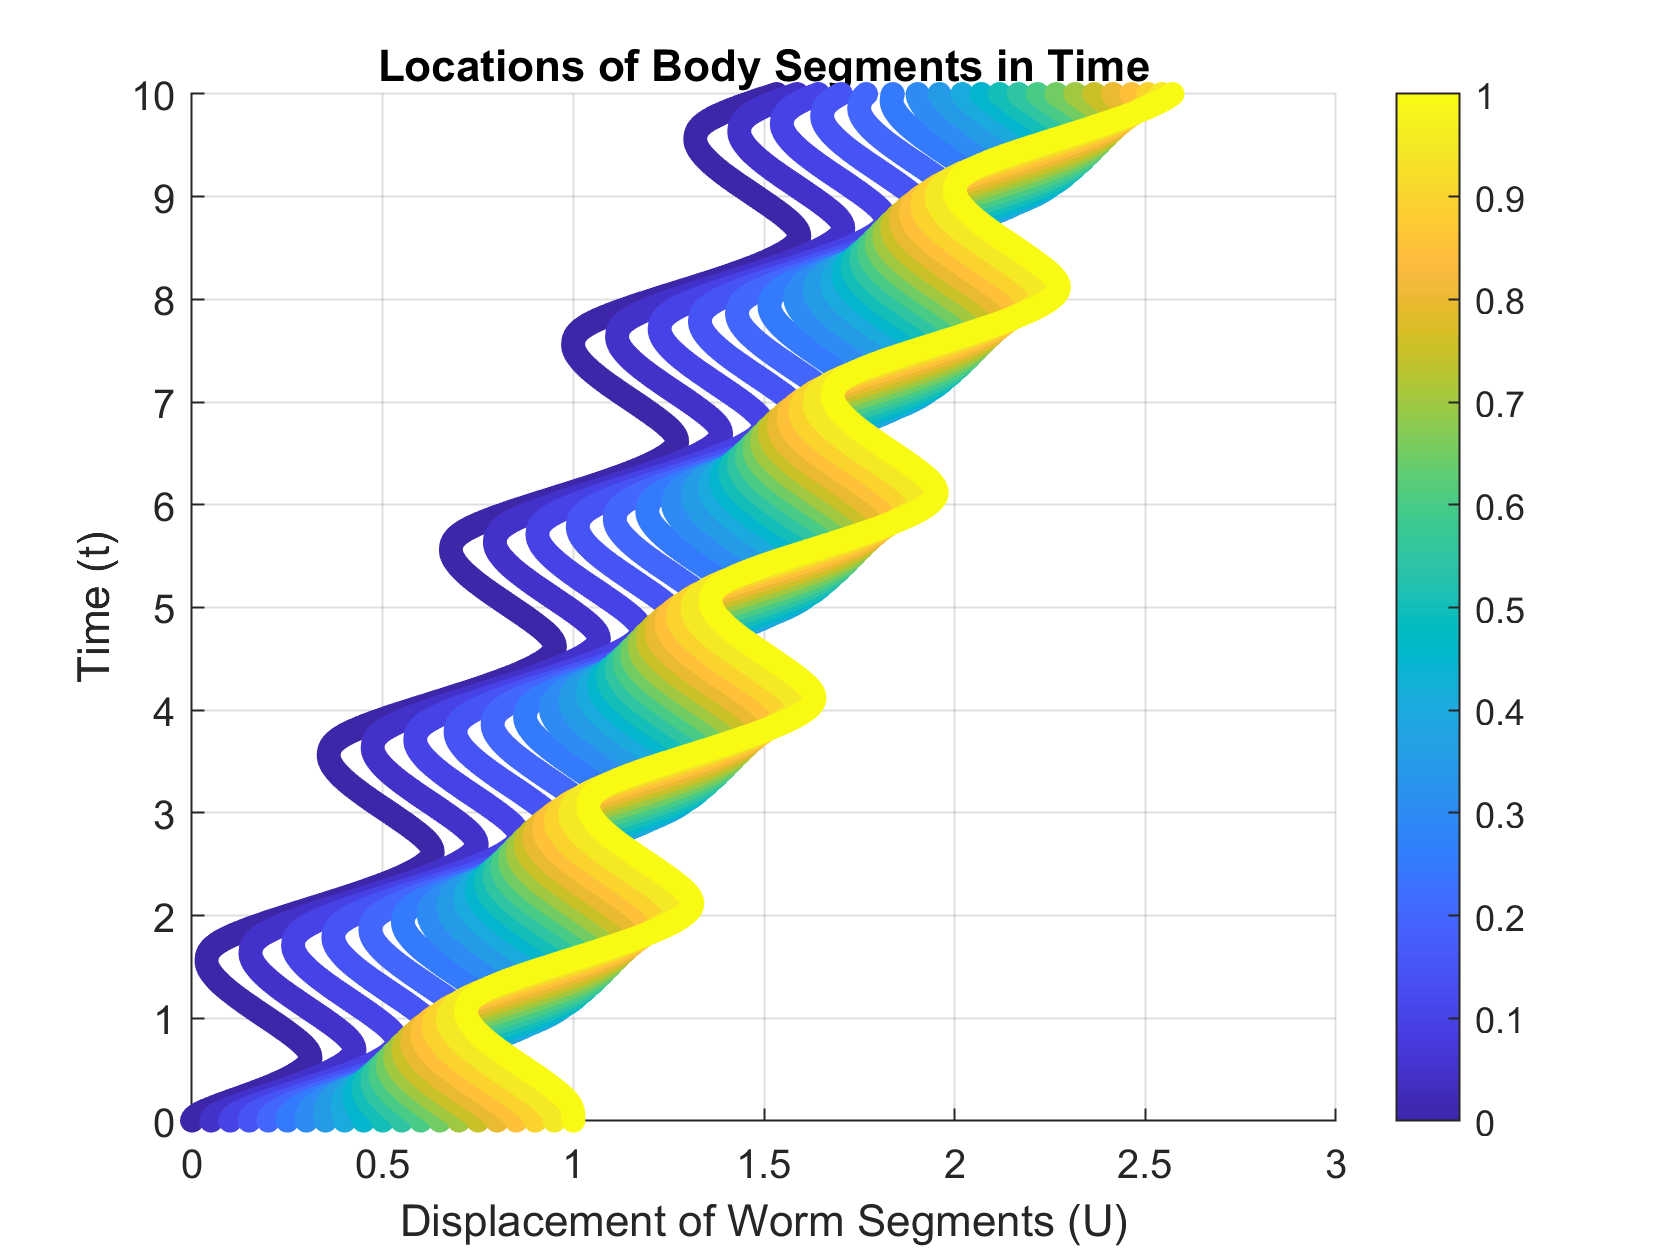
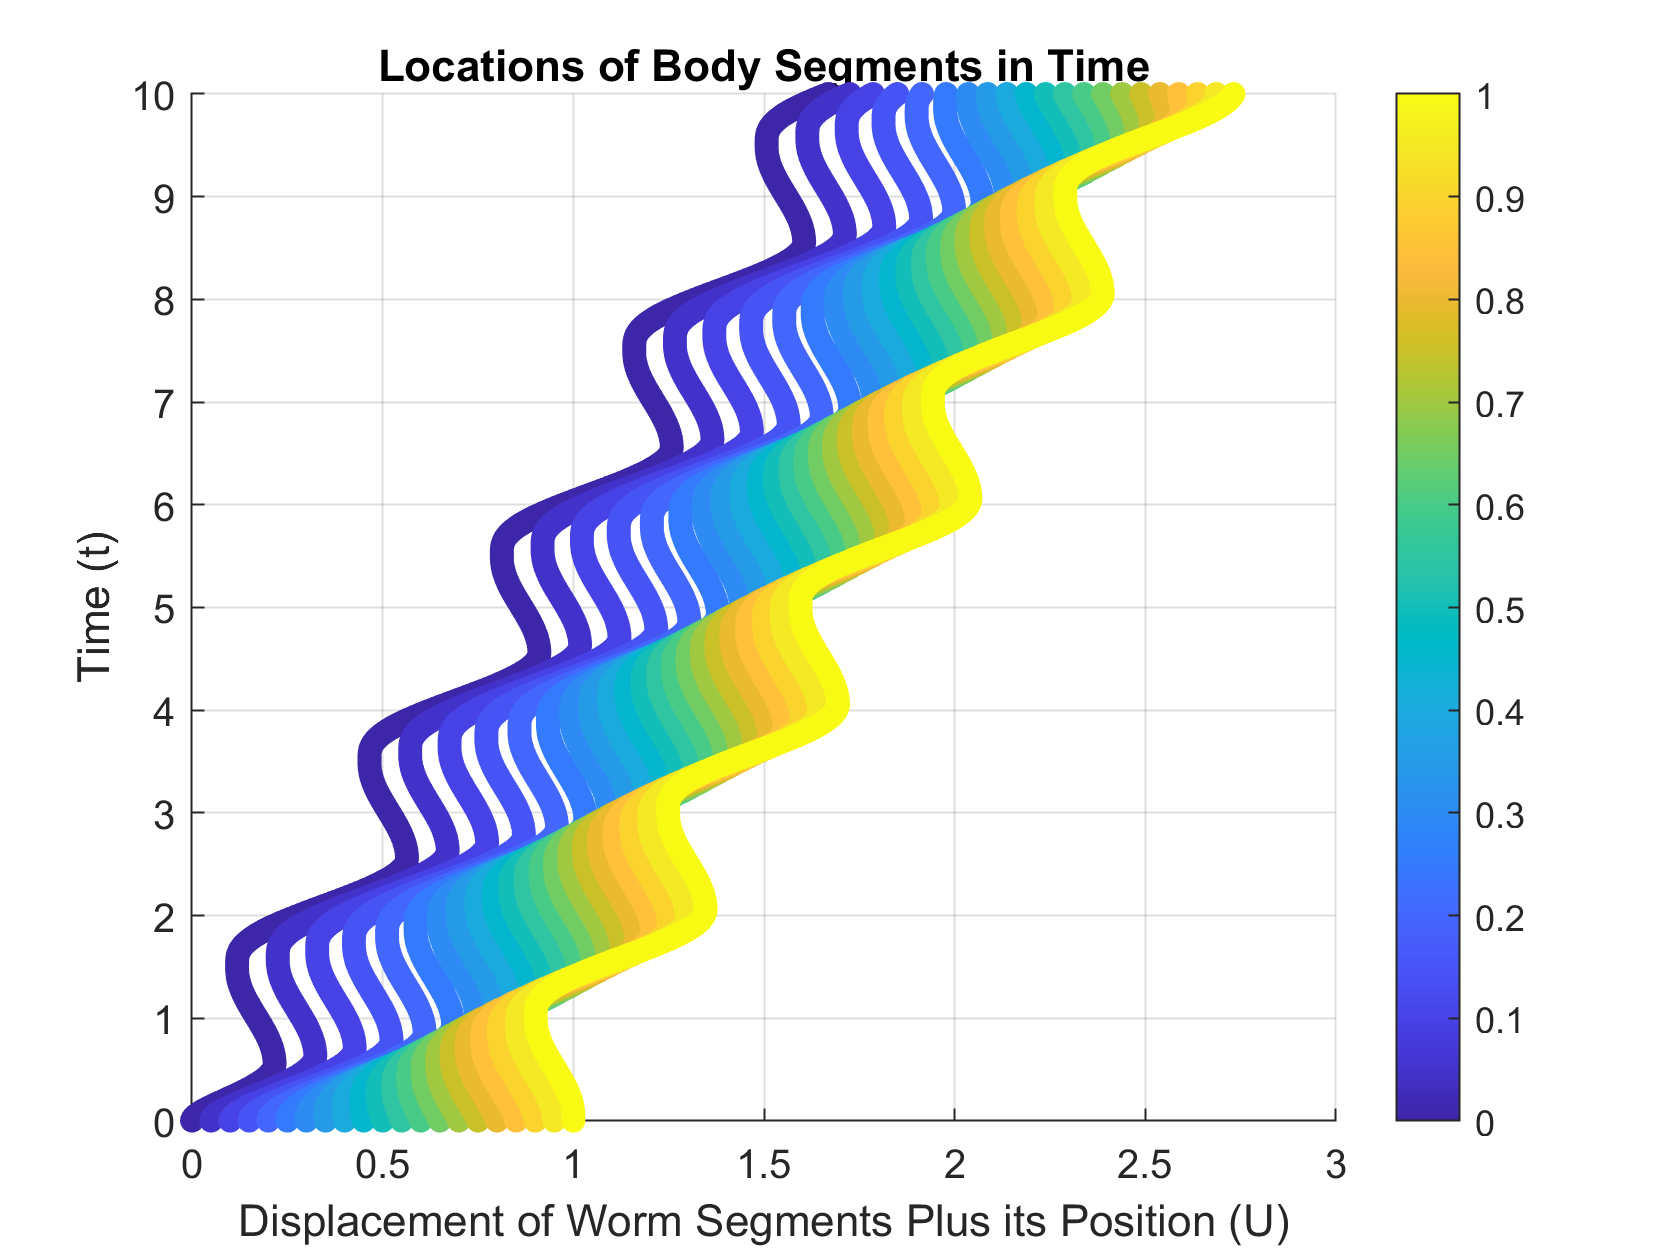
Add files via upload

Changed region(s): [[0.0929, 0.0619, 0.7429, 0.8976], [0.1548, 0.9595, 0.7738, 0.9905]]

diff --git a/APPM4350ProjectNumerical.tex b/APPM4350ProjectNumerical.tex
@@ -17,7 +17,10 @@
 
 \section*{Numerical Solution}
 
-Let us now examine the numerical solution. We start with our PDE:
+Let us now examine a numerical solution. For this section we will
+use a different friction model, decribed later.
+
+We start with our PDE:
 
 \[
 A_{c}EU_{xx}+f_{x}(x,t)=\rho U_{tt}+\mu_{k}U_{t}+F_{dry}(U_{t})
@@ -73,24 +76,30 @@ and $U(x,\Delta t\,(n-1))$ .
 We will define the initial conditions $U_{j}^{0}\coloneqq U_{j}^{1}\coloneqq0$.
 We will set $\Delta x=\frac{1}{20}$, $\Delta t=\frac{1}{800}$, $J=21$,
 $N=81$, $A_{c}=0.1964$, $E=5\times10^{-5}$, $\rho=1100$, and $\mu_{k}=1000$.
-We will define:
+$A_{c}$is the cross sectional area, $E$ is Young's Modulus of the
+body, $\rho$ is the density, and $\mu_{k}$ is the constant for dry
+friction. Many of these values we got from the paper, Excitation of
+Faraday-like body waves in vibrated living earthworms, by Ivan S.
+Maksymov. We will define:
 
 \[
 f_{x}(x,t)=kf_{0}\cos\left(kx-\varpi t\right)
 \]
 
 where $k=\frac{3}{2}\pi$, $f_{0}=2000$, and $\varpi=\pi$. We will
-also define:
+also define a piecewise linear model for dry friction, similar to
+that used in Friction Compensation Strategy for Feed Servo Systems
+Based on Static Friction Model, by Huang, Chen:
 
 \[
 F_{dry}\left(U_{t}\right)=\begin{cases}
-F_{1}*U_{t}^{2}-F_{0} & U_{t}>0\\
+F_{1}*U_{t}-F_{0} & U_{t}>0\\
 0 & U_{t}=0\\
--a\,F_{1}*U_{t}^{2}-F_{0} & U_{t}<0
+a\,F_{1}*U_{t}-F_{0} & U_{t}<0
 \end{cases}
 \]
 
-where $F_{1}=10^{4}$, $F_{0}=10^{3}$, $a=5$.
+where $F_{1}=10^{4}$, $F_{0}=10^{3}$, $a=5$. 
 
 We can then graph $F_{dry}\left(U_{t}\right)$, and $U(x,t)$. 
 
@@ -99,7 +108,6 @@ We can then graph $F_{dry}\left(U_{t}\right)$, and $U(x,t)$.
 
 \caption{The left graph is $F_{dry}\left(U_{t}\right)$ vs. $U_{t}$. The right
 graph is $U\left(x,t\right)$vs. $x$ and $t$.}
-
 \end{figure}
 
 \begin{figure}[h]
@@ -109,4 +117,7 @@ graph is $U\left(x,t\right)$vs. $x$ and $t$.}
 by colors.}
 \end{figure}
 
+We can see that the $U$ is increasing with time meaning that the
+worm is moving forward. We can also see that the movement of the worm
+is periodic, as the worm repeatedly contracts and expands.
 \end{document}
